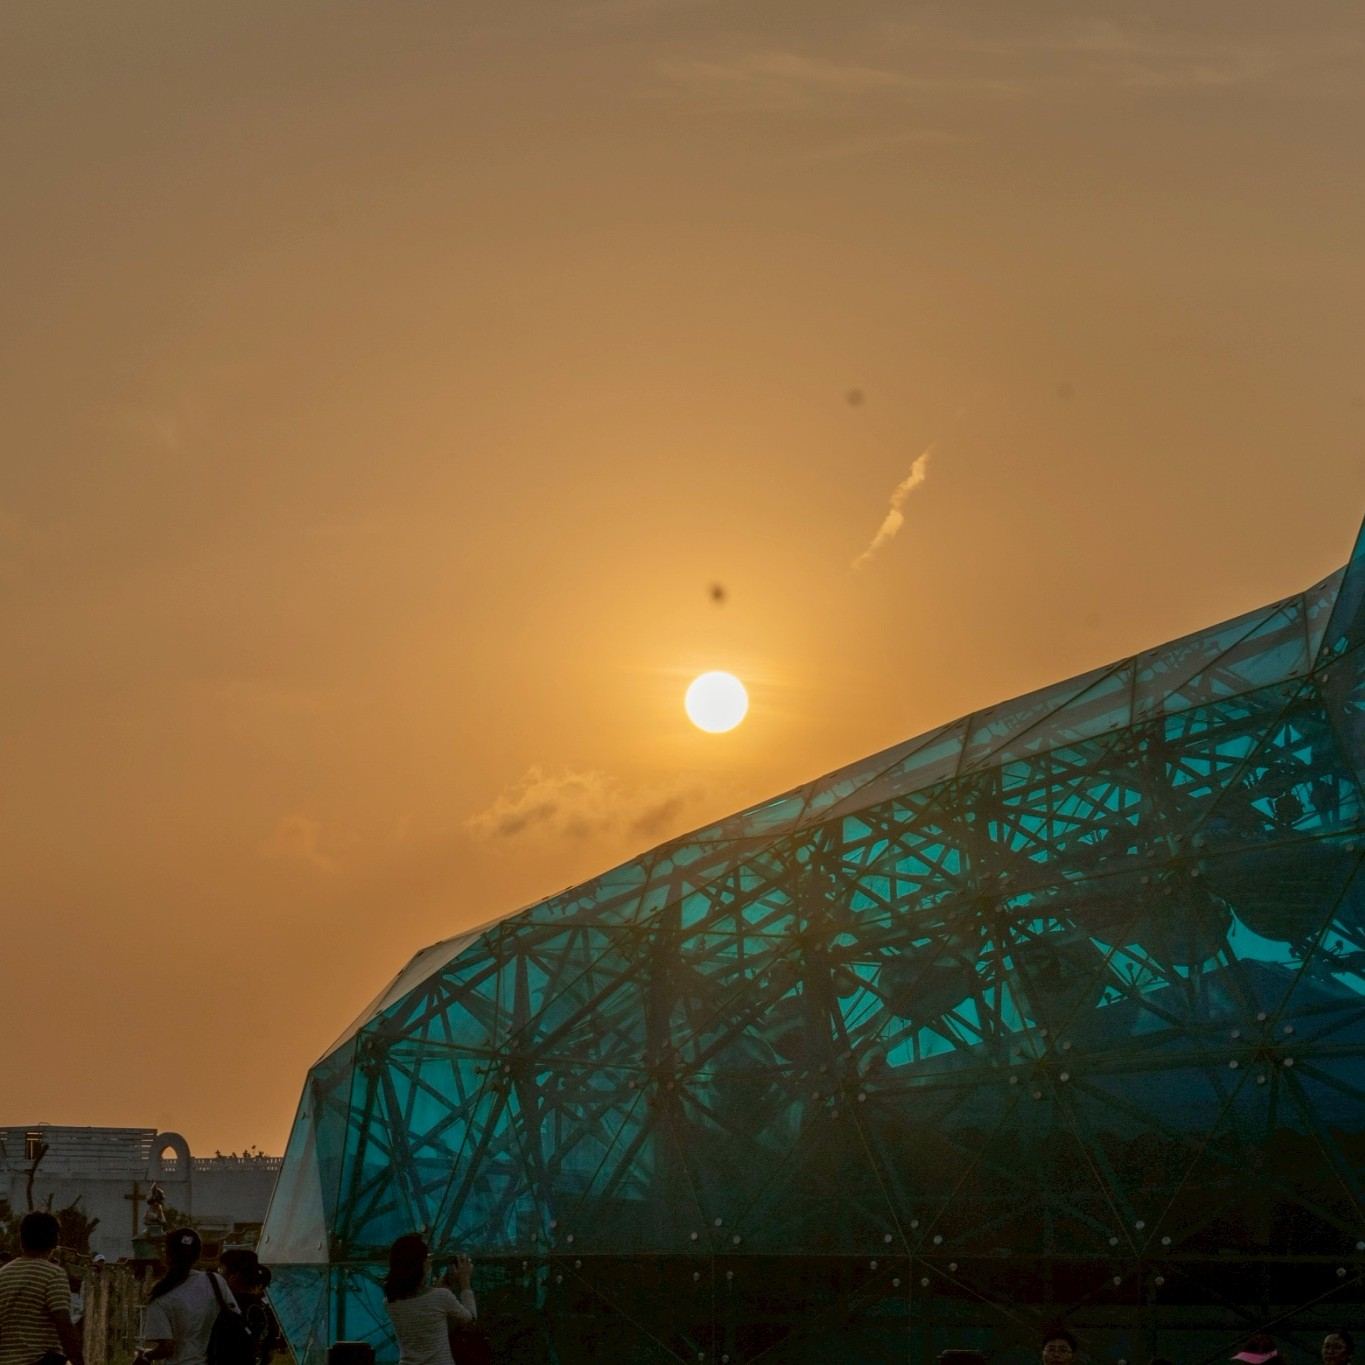
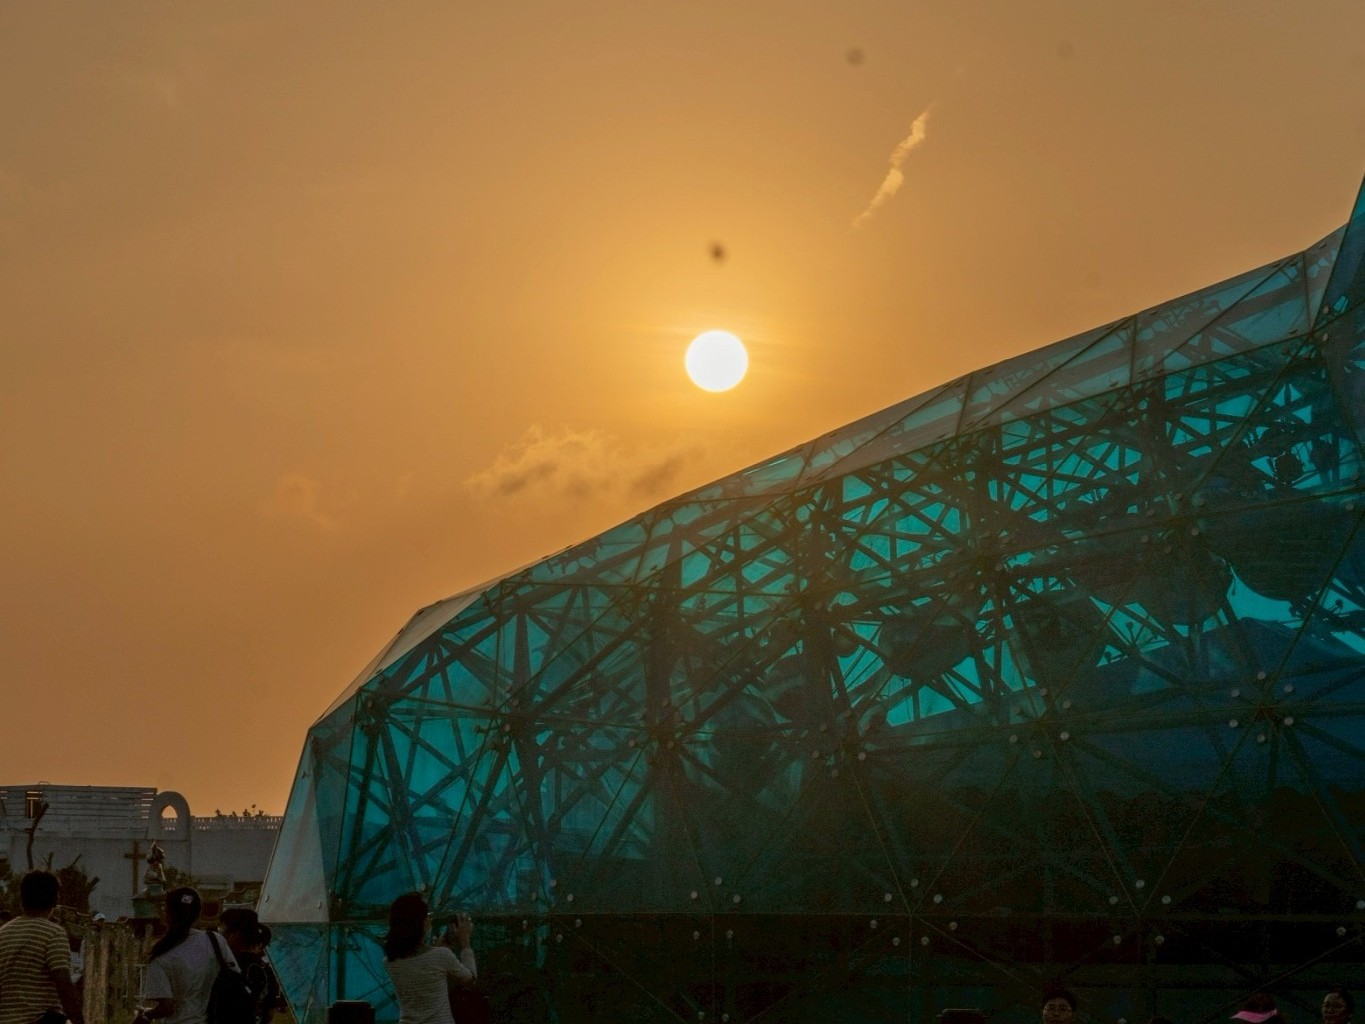
隨便亂改

diff --git a/content/authors/admin/_index.md b/content/authors/admin/_index.md
@@ -1,0 +1,164 @@
+---
+# Display name
+title: 吳健雄
+
+# Name pronunciation (optional)
+name_pronunciation: Chien Shiung Wu
+
+# Full name (for SEO)
+first_name: Shiung Wu
+last_name: Chien
+
+# Pronouns (optional)
+pronouns: she/her
+
+# Status emoji
+status:
+  icon: ☕
+
+# Is this the primary user of the site?
+superuser: true
+
+# Role/position/tagline
+role: PhD Students
+
+user_groups:
+  - Postdoctoral Researchers
+# Organizations/Affiliations to display in Biography blox
+organizations:
+  - name: GenCoin
+    url: https://www.example.com/
+
+# Social network links
+# Need to use another icon? Simply download the SVG icon to your `assets/media/icons/` folder.
+profiles:
+
+
+education:
+  - area: PhD Artificial Intelligence
+    institution: Stanford University
+    date_start: 2016-01-01
+    date_end: 2020-12-31
+    summary: |
+      Thesis on _Why LLMs are awesome_. Supervised by [Prof Joe Smith](https://example.com). Presented papers at 5 IEEE conferences with the contributions being published in 2 Springer journals.
+    button:
+      text: 'Read Thesis'
+      url: 'https://example.com'
+  - area: MEng Artificial Intelligence
+    institution: Massachusetts Institute of Technology
+    date_start: 2016-01-01
+    date_end: 2020-12-31
+    summary: |
+      GPA: 3.8/4.0
+
+      Courses included:
+      - lorem ipsum dolor sit amet, consectetur adipiscing elit
+      - lorem ipsum dolor sit amet, consectetur adipiscing elit
+      - lorem ipsum dolor sit amet, consectetur adipiscing elit
+  - area: BSc Artificial Intelligence
+    institution: Massachusetts Institute of Technology
+    date_start: 2016-01-01
+    date_end: 2020-12-31
+    summary: |
+      GPA: 3.4/4.0
+
+      Courses included:
+      - lorem ipsum dolor sit amet, consectetur adipiscing elit
+      - lorem ipsum dolor sit amet, consectetur adipiscing elit
+      - lorem ipsum dolor sit amet, consectetur adipiscing elit
+work:
+  - position: Director of Cloud Infrastructure
+    company_name: GenCoin
+    company_url: ''
+    company_logo: ''
+    date_start: 2021-01-01
+    date_end: ''
+    summary: |2-
+      Responsibilities include:
+      - lorem ipsum dolor sit amet, consectetur adipiscing elit
+      - lorem ipsum dolor sit amet, consectetur adipiscing elit
+      - lorem ipsum dolor sit amet, consectetur adipiscing elit
+  - position: Backend Software Engineer
+    company_name: X
+    company_url: ''
+    company_logo: ''
+    date_start: 2016-01-01
+    date_end: 2020-12-31
+    summary: |
+      Responsibilities include:
+      - Migrated infrastructure to a new data center
+      - lorem ipsum dolor sit amet, consectetur adipiscing elit
+      - lorem ipsum dolor sit amet, consectetur adipiscing elit
+
+# Skills
+# Add your own SVG icons to `assets/media/icons/`
+skills:
+  - name: Technical Skills
+    items:
+      - name: Python
+        description: ''
+        percent: 80
+
+      - name: RStudio
+        description: ''
+        percent: 100
+
+      - name: PyTorch
+        description: ''
+        percent: 40
+
+  - name: Hobbies
+    color: '#eeac02'
+    color_border: '#f0bf23'
+    items:
+      - name: Hiking
+        description: ''
+        percent: 60
+
+      - name: Cats
+        description: ''
+        percent: 100
+
+      - name: Photography
+        description: ''
+        percent: 80
+
+
+languages:
+  - name: English
+    percent: 100
+  - name: Chinese
+    percent: 75
+  - name: Portuguese
+    percent: 25
+
+# Awards.
+#   Add/remove as many awards below as you like.
+#   Only `title`, `awarder`, and `date` are required.
+#   Begin multi-line `summary` with YAML's `|` or `|2-` multi-line prefix and indent 2 spaces below.
+awards:
+  - title: Neural Networks and Deep Learning
+    url: https://www.coursera.org/learn/neural-networks-deep-learning
+    date: '2023-11-25'
+    awarder: Coursera
+    summary: |
+      I studied the foundational concept of neural networks and deep learning. By the end, I was familiar with the significant technological trends driving the rise of deep learning; build, train, and apply fully connected deep neural networks; implement efficient (vectorized) neural networks; identify key parameters in a neural network’s architecture; and apply deep learning to your own applications.
+  - title: Blockchain Fundamentals
+    url: https://www.edx.org/professional-certificate/uc-berkeleyx-blockchain-fundamentals
+    date: '2023-07-01'
+    awarder: edX
+    summary: |
+      Learned:
+      - Synthesize your own blockchain solutions
+      - Gain an in-depth understanding of the specific mechanics of Bitcoin
+      - Understand Bitcoin’s real-life applications and learn how to attack and destroy Bitcoin, Ethereum, smart contracts and Dapps, and alternatives to Bitcoin’s Proof-of-Work consensus algorithm
+  - title: 'Object-Oriented Programming in R'
+    url: https://www.datacamp.com/courses/object-oriented-programming-with-s3-and-r6-in-r
+    certificate_url: https://www.datacamp.com
+    date: '2023-01-21'
+    awarder: datacamp
+    summary: |
+      Object-oriented programming (OOP) lets you specify relationships between functions and the objects that they can act on, helping you manage complexity in your code. This is an intermediate level course, providing an introduction to OOP, using the S3 and R6 systems. S3 is a great day-to-day R programming tool that simplifies some of the functions that you write. R6 is especially useful for industry-specific analyses, working with web APIs, and building GUIs.
+---
+
+I am currently Director of Cloud Infrastructure at GenCoin where I am leading teams on edge computing, deep sea data center architecture, and hivemind optimization.

diff --git a/content/authors/A/_index.md b/content/authors/A/_index.md
@@ -1,0 +1,28 @@
+---
+title: Dr. Jane Doe
+role: Postdoctoral Researcher
+bio: Research interests include machine learning and computational biology.
+interests:
+  - Machine Learning
+  - Computational Biology
+  - Data Science
+organizations:
+  - name: University of Excellence
+    url: https://example.edu
+social:
+  - icon: envelope
+    icon_pack: fas
+    link: 'mailto:jane@example.edu'
+  - icon: twitter
+    icon_pack: fab
+    link: https://twitter.com/janedoe
+  - icon: github
+    icon_pack: fab
+    link: https://github.com/janedoe
+user_groups:
+  - Postdoctoral Researchers
+---
+
+Full biography content here...
+
+![career](career/career1.png)

diff --git a/content/authors/B/_index.md b/content/authors/B/_index.md
@@ -1,0 +1,28 @@
+---
+title: Dr. Jane Doe
+role: Postdoctoral Researcher
+bio: Research interests include machine learning and computational biology.
+interests:
+  - Machine Learning
+  - Computational Biology
+  - Data Science
+organizations:
+  - name: University of Excellence
+    url: https://example.edu
+social:
+  - icon: envelope
+    icon_pack: fas
+    link: 'mailto:jane@example.edu'
+  - icon: twitter
+    icon_pack: fab
+    link: https://twitter.com/janedoe
+  - icon: github
+    icon_pack: fab
+    link: https://github.com/janedoe
+user_groups:
+  - Postdoctoral Researchers
+---
+
+Full biography content here...
+
+jjjjj

diff --git a/content/members/_index.md b/content/members/_index.md
@@ -151,7 +151,7 @@ sections:
           end: 'primary-700'
           direction: 135
         image:
-          filename: 'textures/noise-pattern.svg'
+          filename: 'career/career1.png'
           size: '32px'
           position: 'repeat'
 ---

diff --git a/_vendor/github.com/HugoBlox/hugo-blox-builder/modules/blox-tailwind/blox/team-showcase/README.md b/_vendor/github.com/HugoBlox/hugo-blox-builder/modules/blox-tailwind/blox/team-showcase/README.md
@@ -61,7 +61,7 @@ social:
   - icon: envelope
     icon_pack: fas
     link: 'mailto:jane@example.edu'
-  - icon: twitter
+  - icon: envelope
     icon_pack: fab
     link: https://twitter.com/janedoe
   - icon: github

diff --git a/content/authors/_index.md b/content/authors/_index.md
@@ -1,0 +1,9 @@
+---
+# To publish author profile pages, remove all the `build` and `cascade` settings below.
+build:
+  render: never
+cascade:
+  build:
+    render: never
+    list: always
+---
